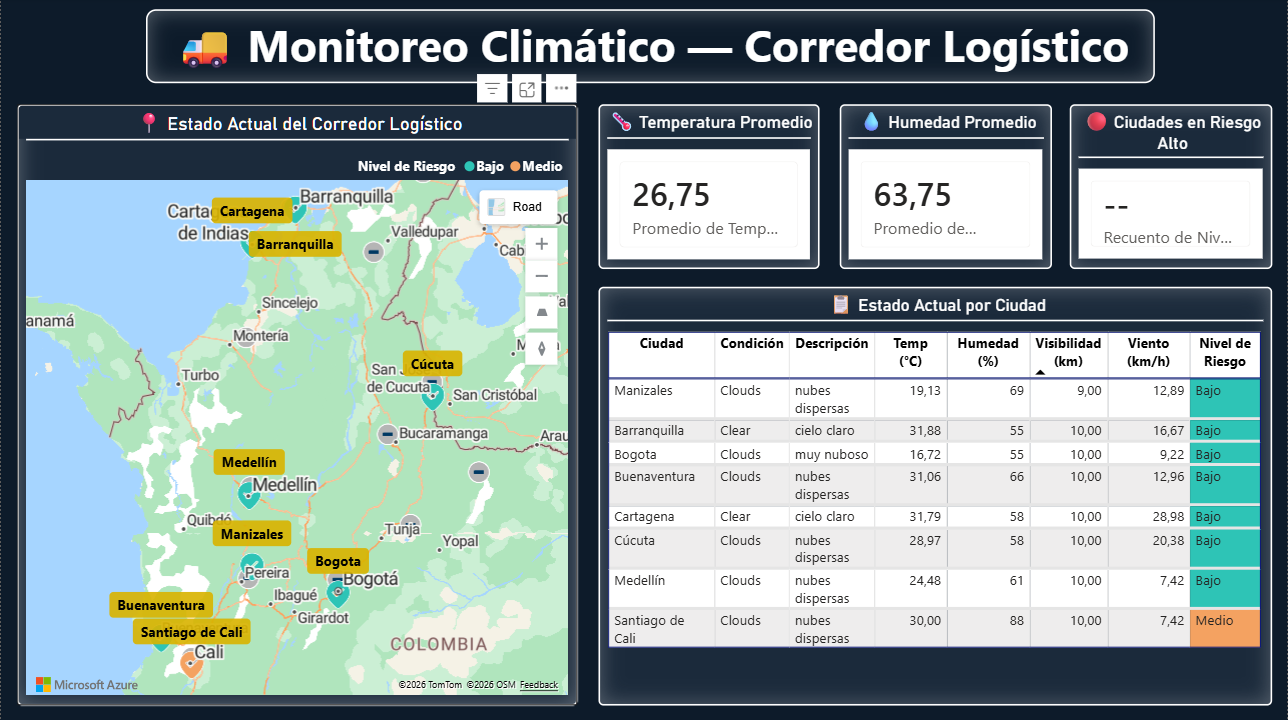
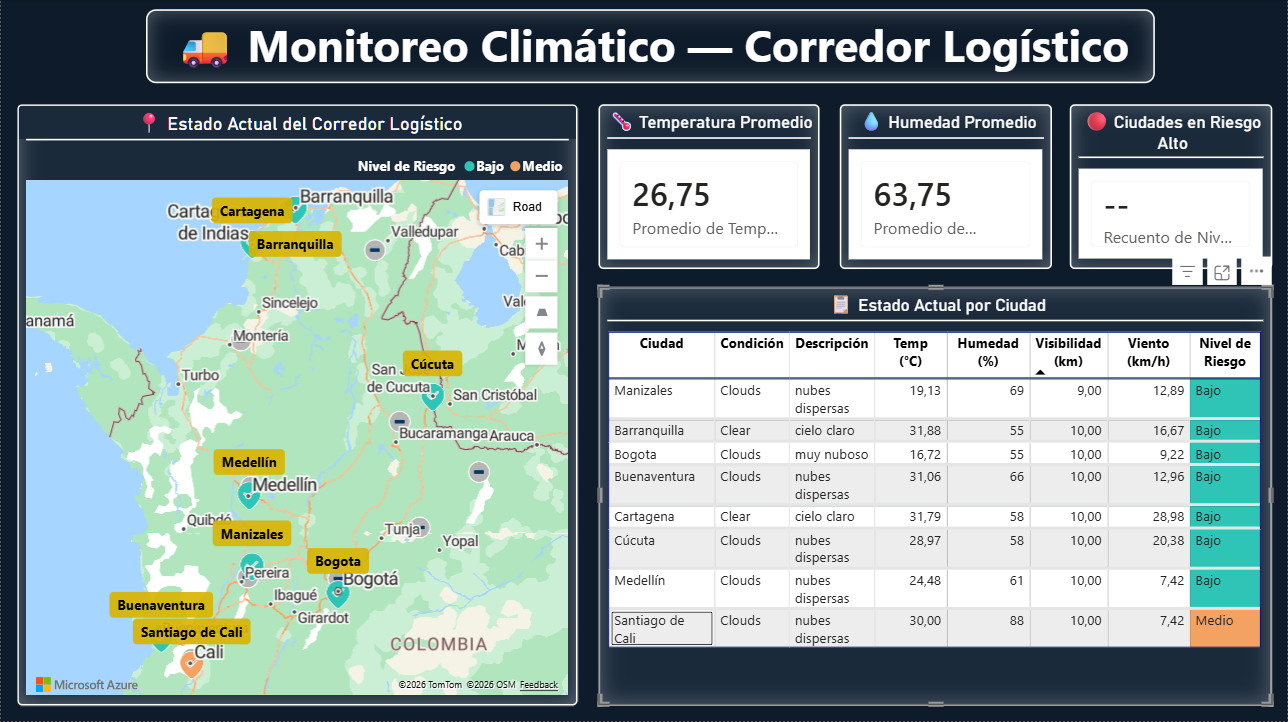
mejoras en imagenes de dashboard

diff --git a/style.css b/style.css
@@ -877,6 +877,30 @@ body {
     font-weight: 600;
 }
 
+/* FEATURED FOOTER — MOBILE (unificado) */
+@media (max-width: 768px) {
+    .featured-footer {
+        flex-direction: column;
+        align-items: center;
+        gap: 1rem;
+        margin-top: 2rem;
+    }
+
+    .featured-tech {
+        justify-content: center;
+        gap: 0.4rem;
+    }
+
+    .featured-badge {
+        font-size: 0.72rem;
+        padding: 0.2rem 0.55rem;
+    }
+
+    .featured-footer .btn {
+        width: 100%;
+    }
+}
+
 /* =============================================
    STACK TÉCNICO — SKILL COLUMNS Y BADGES
    ============================================= */
@@ -1310,54 +1334,6 @@ body {
     color: #ffffff;
     line-height: 1.3;
     margin: 0;
-}
-
-@media (max-width: 768px) {
-    .featured-footer {
-        flex-direction: column;
-        align-items: center;
-    }
-
-    .featured-tech {
-        justify-content: center;
-    }
-
-    .featured-badge {
-        font-size: 0.78rem;
-        padding: 0.25rem 0.65rem;
-    }
-
-    .featured-footer .btn {
-        width: 100%;
-    }
-}
-
-@media (max-width: 768px) {
-    .featured-footer {
-        flex-direction: column;
-        align-items: center;
-        gap: 1rem;
-    }
-
-    .featured-tech {
-        justify-content: center;
-        gap: 0.4rem;
-    }
-
-    .featured-badge {
-        font-size: 0.72rem;
-        padding: 0.2rem 0.55rem;
-    }
-
-    .featured-footer .btn {
-        width: 100%;
-    }
-}
-
-@media (max-width: 768px) {
-    .featured-footer {
-        margin-top: 2rem;
-    }
 }
 
 /* =============================================

diff --git a/index.html b/index.html
@@ -350,11 +350,11 @@
                                     <span class="dashboard-carousel-label">Monitoreo en Tiempo Real</span>
                                 </div>
                                 <div class="dashboard-carousel-slide">
-                                    <img src="2_analisis_hitorico.png" alt="Análisis Histórico" loading="lazy">
+                                    <img src="2_analisis_historico.png" alt="Análisis Histórico" loading="lazy">
                                     <span class="dashboard-carousel-label">Análisis Histórico</span>
                                 </div>
                                 <div class="dashboard-carousel-slide">
-                                    <img src="seleccion_cali.png" alt="Selección por Ciudad" loading="lazy">
+                                    <img src="3_seleccion_cali.png" alt="Selección por Ciudad" loading="lazy">
                                     <span class="dashboard-carousel-label">Selección por Ciudad</span>
                                 </div>
                             </div>

diff --git a/script.js b/script.js
@@ -210,7 +210,7 @@ if (typeof tsParticles !== "undefined") {
 }
 
 // =============================================
-// FILTRO DE PROYECTOS
+// FILTRO DE PROYECTOS (soporta multi-categoría)
 // =============================================
 document.querySelectorAll('.filter-btn').forEach(btn => {
     btn.addEventListener('click', () => {
@@ -220,7 +220,8 @@ document.querySelectorAll('.filter-btn').forEach(btn => {
         const filter = btn.getAttribute('data-filter');
 
         document.querySelectorAll('.project-item').forEach(item => {
-            if (filter === 'all' || item.getAttribute('data-category') === filter) {
+            const categories = item.getAttribute('data-category').split(' ');
+            if (filter === 'all' || categories.includes(filter)) {
                 item.classList.remove('hidden');
             } else {
                 item.classList.add('hidden');
